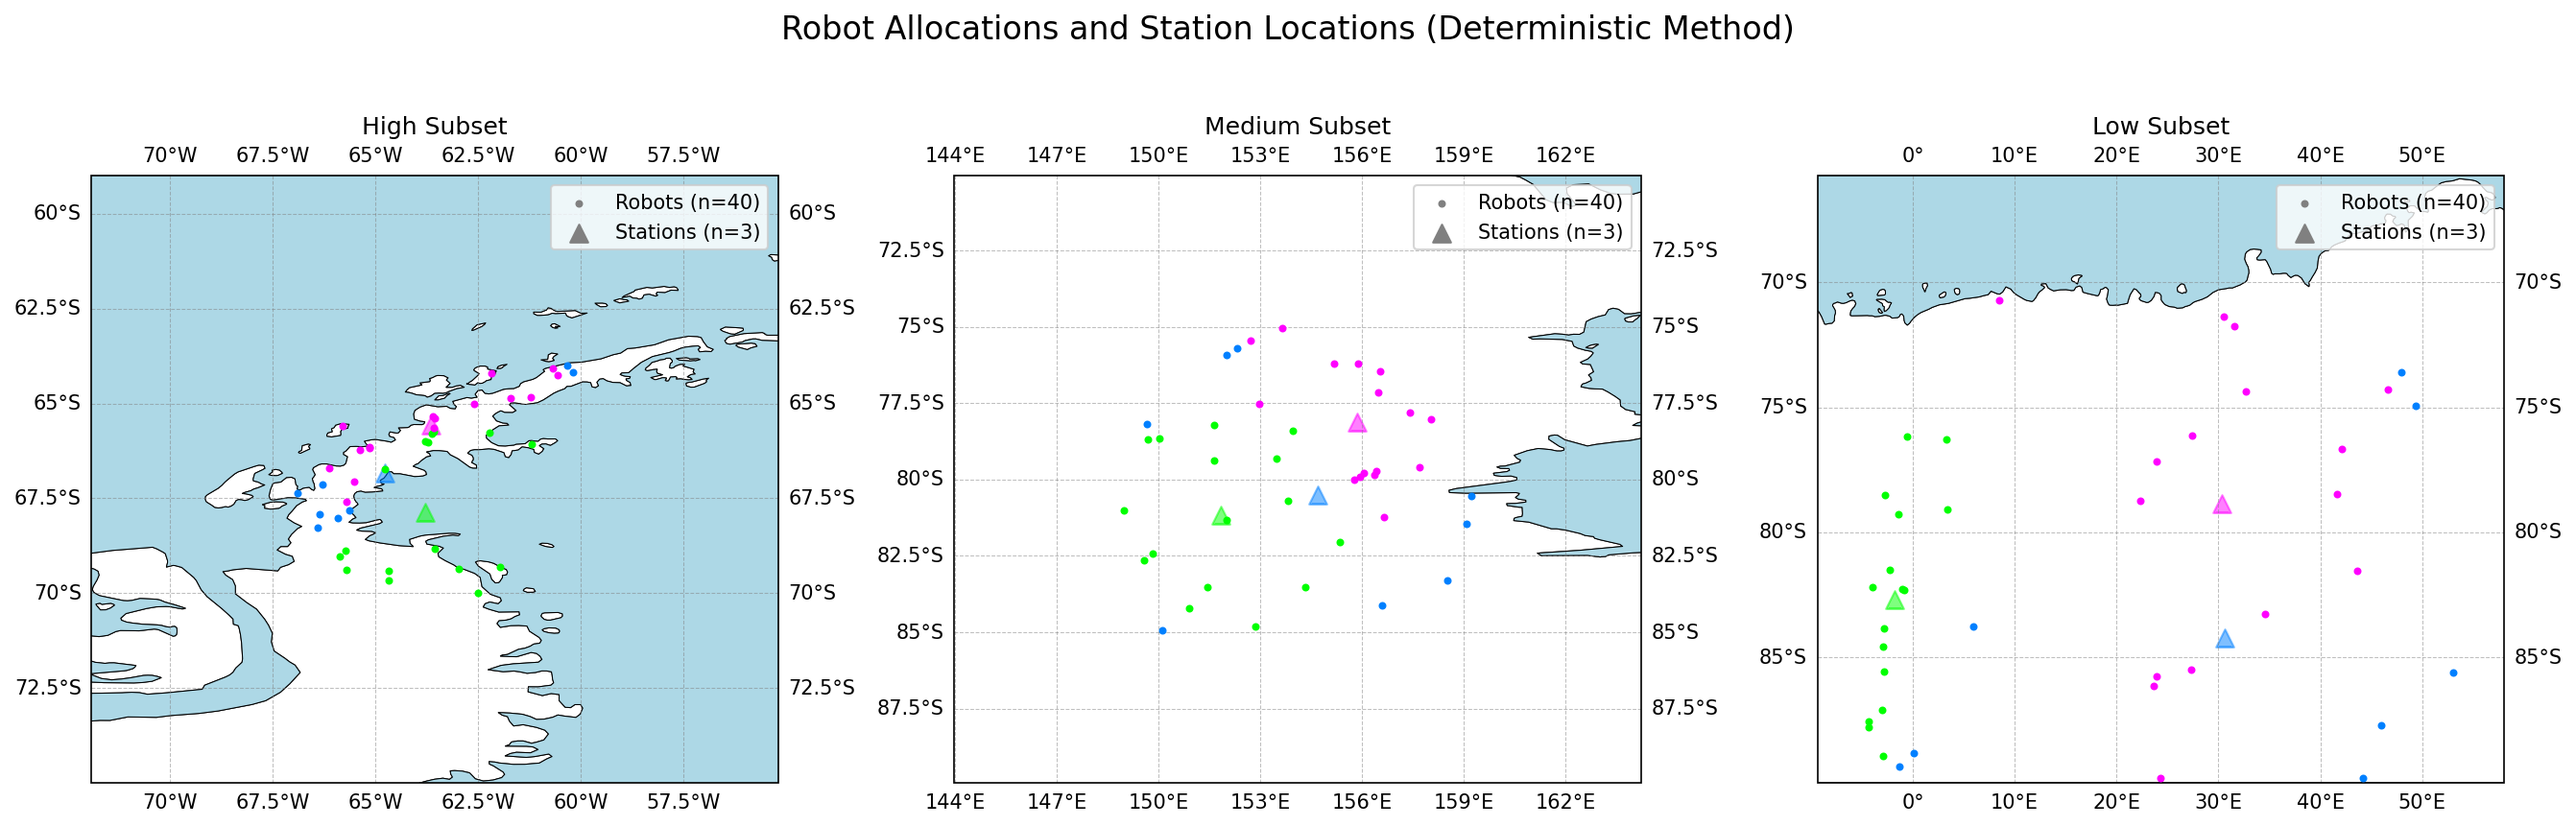
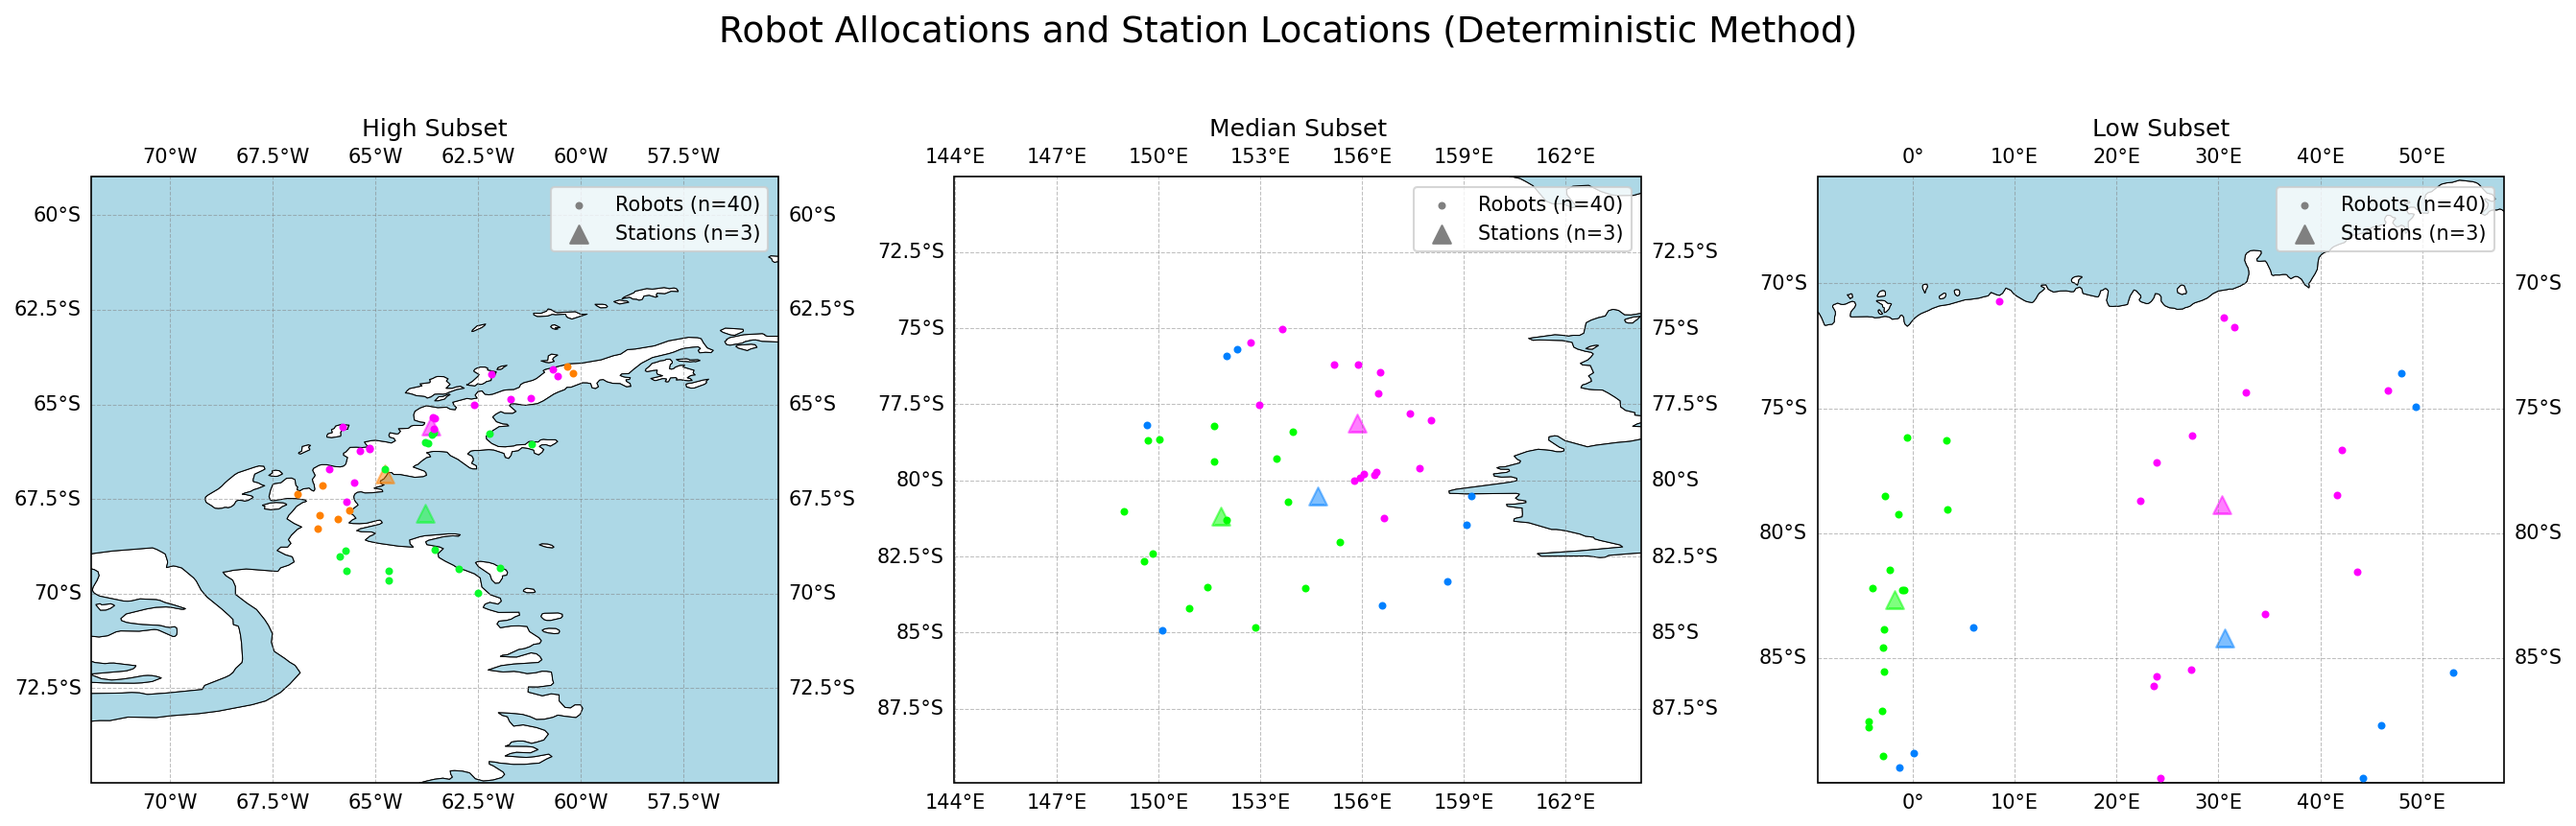
plotter update

diff --git a/results_plotter_subsets.py b/results_plotter_subsets.py
@@ -1,5 +1,6 @@
 import pandas as pd
 import numpy as np
+import random
 import matplotlib.pyplot as plt
 from pathlib import Path
 import cartopy.crs as ccrs
@@ -12,31 +13,47 @@ import matplotlib.colors as mcolors
 all_robots = pd.read_csv("processed_data/robot_locations_range.csv")
 all_robots.rename(columns={'index': 'robot_id'}, inplace=True) # Change column name
 
-# Folder names for the data of 3 subset
-density_folders = {
-	"High": "heuristic_deterministic_high",
-	"Medium": "heuristic_deterministic_median",
-	"Low": "heuristic_deterministic_low",
+# Methods folder
+methods = ["deterministic", "local_search"]
+method_folder = {
+    "deterministic": "heuristic_deterministic",
+    "local_search": "local_search_deterministic",
 }
 
-# Methods
-methods = ["deterministic", "local_search"]
-
-# Load in data
+# Write subsets data in a dictionary
 data = {}
 
-for density, folder in density_folders.items():
-    for method in methods:
-        allocations_dir = Path("results") / folder / f"allocations_{method}.csv"
-        stations_dir = Path("results") / folder / f"stations_{method}.csv"
-        allocations_df = pd.read_csv(allocations_dir)
-        allocations_df = pd.merge(allocations_df, all_robots, on="robot_id", how="left") # Match robot locations
-        stations_df = pd.read_csv(stations_dir)
-        # Assign a unique color to each station
-        np.random.seed(42)
+for method in methods:
+    path = Path("results") / method_folder[method]
+    for subset_folder in path.iterdir():
+        if not subset_folder.is_dir():
+            continue
+        # Extract density from folder name
+        density = subset_folder.name.split("_")[-1].lower()
+        if density == "full":
+            continue  # skip full instance
+        density = density.capitalize()
+
+        allocations_path = subset_folder / f"allocations_{method}.csv"
+        stations_path = subset_folder / f"stations_{method}.csv"
+
+        if not allocations_path.exists() or not stations_path.exists():
+            continue
+
+        allocations_df = pd.read_csv(allocations_path)
+        stations_df = pd.read_csv(stations_path)
+        # Preprocess data
+        # 1) Match robots' location
+        allocations_df = pd.merge(allocations_df, all_robots, on = "robot_id", how = "left")
+        # 2) Assign unique color to each station
+        random.seed(42)
+        # Use station_id-sorted mapping to keep colors stable across subsets and reruns.
+        stations_df = stations_df.sort_values("station_id").reset_index(drop = True)
         colors = distinctipy.get_colors(len(stations_df))
         stations_df["color"] = [mcolors.to_hex(c) for c in colors]
-        data[(density, method)] = (allocations_df, stations_df)
+
+        # Store the processed data
+        data[(method, density)] = (allocations_df, stations_df)
 
 
 def plot_panel(allocations_df, stations_df, density, ax = None, extent = None, show_legend = True, draw_labels = False):
@@ -115,12 +132,12 @@ def plot_panel(allocations_df, stations_df, density, ax = None, extent = None, s
 # Draw 1*3 plot for each method 
 for m in methods:
     fig, axes = plt.subplots(1, 3, figsize=(18, 6), subplot_kw={'projection': ccrs.PlateCarree()})
-    for i, density in enumerate(["High", "Medium", "Low"]):
-        allocations_df, stations_df = data[(density, m)]
+    for i, density in enumerate(["High", "Median", "Low"]):
+        allocations_df, stations_df = data[(m, density)]
         show_legend = True
         draw_labels = True
-        plot_panel(allocations_df, stations_df, density, ax=axes[i], show_legend=show_legend, draw_labels=draw_labels)
-    plt.suptitle(f"Robot Allocations and Station Locations ({m.capitalize()} Method)", fontsize=16)
+        plot_panel(allocations_df, stations_df, density, ax = axes[i], show_legend = show_legend, draw_labels = draw_labels)
+    plt.suptitle(f"Robot Allocations and Station Locations ({m.capitalize()} Method)", fontsize = 18)
     plt.tight_layout(rect=[0, 0.03, 1, 0.95])
     plt.savefig(f"Diagrams/{m}_method_subsets.png", dpi = 150, bbox_inches = "tight")
     

diff --git a/result_plotter_full.py b/result_plotter_full.py
@@ -1,5 +1,6 @@
 import pandas as pd
 import numpy as np
+import random
 import matplotlib.pyplot as plt
 from pathlib import Path
 import cartopy.crs as ccrs
@@ -24,8 +25,8 @@ def data_preprocess(stations_dir, allocations_dir):
     allocations_df = pd.read_csv(allocations_dir)
 
     # Assign a unique color to each station
-    np.random.seed(42)
-    colors = distinctipy.get_colors(len(stations_df), random_seed=42)
+    random.seed(42)
+    colors = distinctipy.get_colors(len(stations_df))
     stations_df["color"] = [mcolors.to_hex(c) for c in colors]
     # Merge robot location data with allocation data
     robot_df = pd.merge(allocations_df, all_robots, on="robot_id", how="left")
@@ -140,34 +141,16 @@ def plot_results(stations_df, robot_df, output_path):
     plt.tight_layout()
     plt.savefig(output_path, dpi = 150, bbox_inches = "tight")
     plt.close(fig)
-
-
-def generate_maps_for_folder(results_folder):
-    """
-    For each pair of robot allocation and station location data,
-    draw the corresponding map and save it in the same folder.
-    """
-    results_path = Path(results_folder)
-    if not results_path.exists() or not results_path.is_dir():
-        raise FileNotFoundError(f"Invalid result folder: {results_folder}")
-
-    for alloc_file in results_path.glob("allocations_*.csv"):
-        method_name = alloc_file.stem.replace("allocations_", "", 1)
-        station_file = results_path / f"stations_{method_name}.csv"
-
-        if not station_file.exists():
-            print(f"Skip {method_name}: missing {station_file.name}")
-            continue
-
-        stations_df, robot_df = data_preprocess(station_file, alloc_file)
-        output_file = results_path / f"{method_name}_full_map.png"
-        plot_results(stations_df, robot_df, output_file)
-
-
+    
+    
 if __name__ == "__main__":
-    target_folder = r"results\\heuristic_deterministic_full"
-    generate_maps_for_folder(target_folder)
+    method = "local_search"
+    allocations_dir = "results\\local_search_deterministic\\local_search_deterministic_full\\allocations_local_search.csv"
+    stations_dir = "results\\local_search_deterministic\\local_search_deterministic_full\\stations_local_search.csv"
+    output_path = f"Diagrams\\{method}_full.png"
 
+    stations_df, robot_df = data_preprocess(stations_dir, allocations_dir)
+    plot_results(stations_df, robot_df, output_path)
 
 
 
